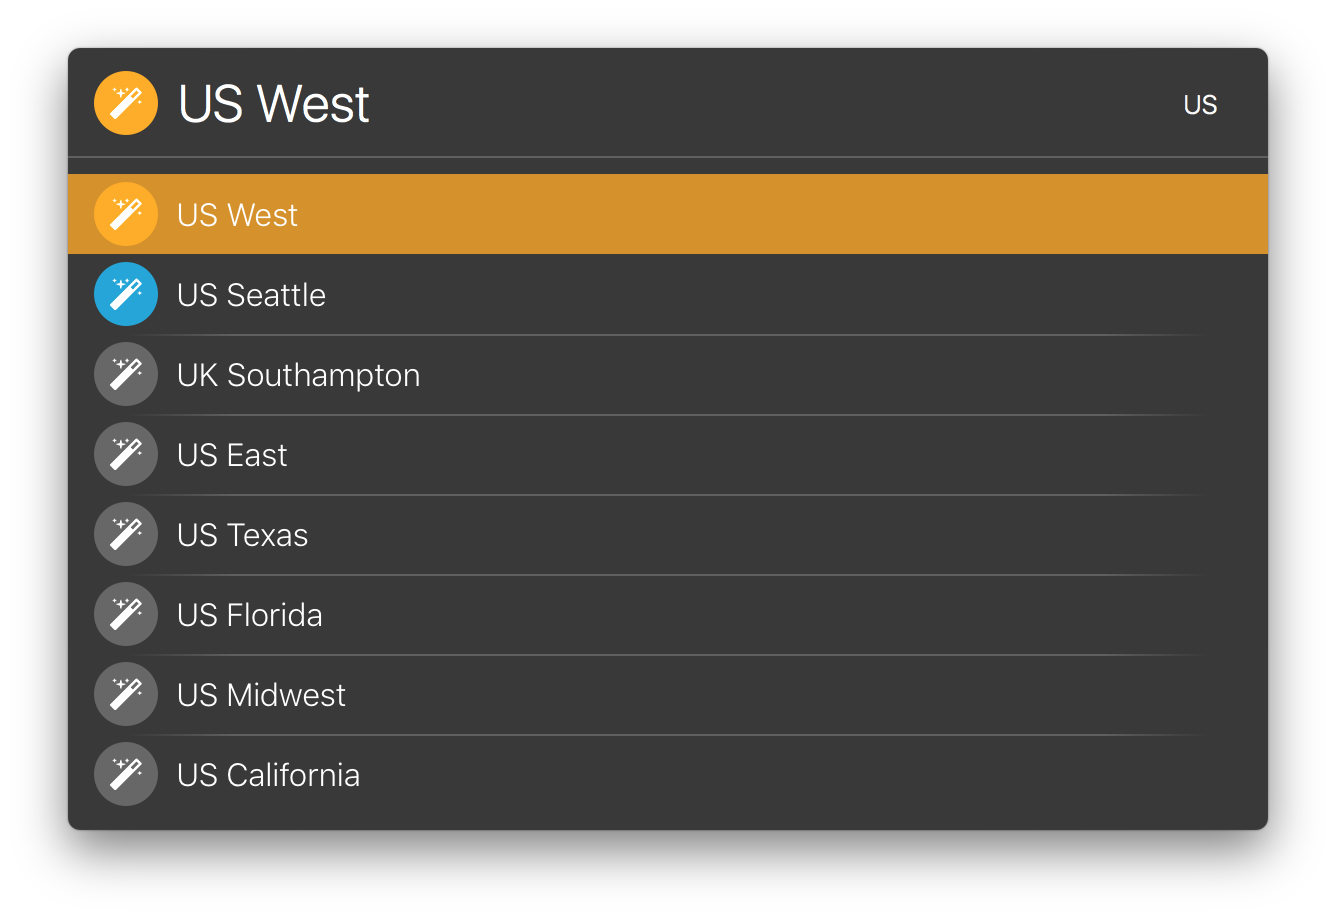
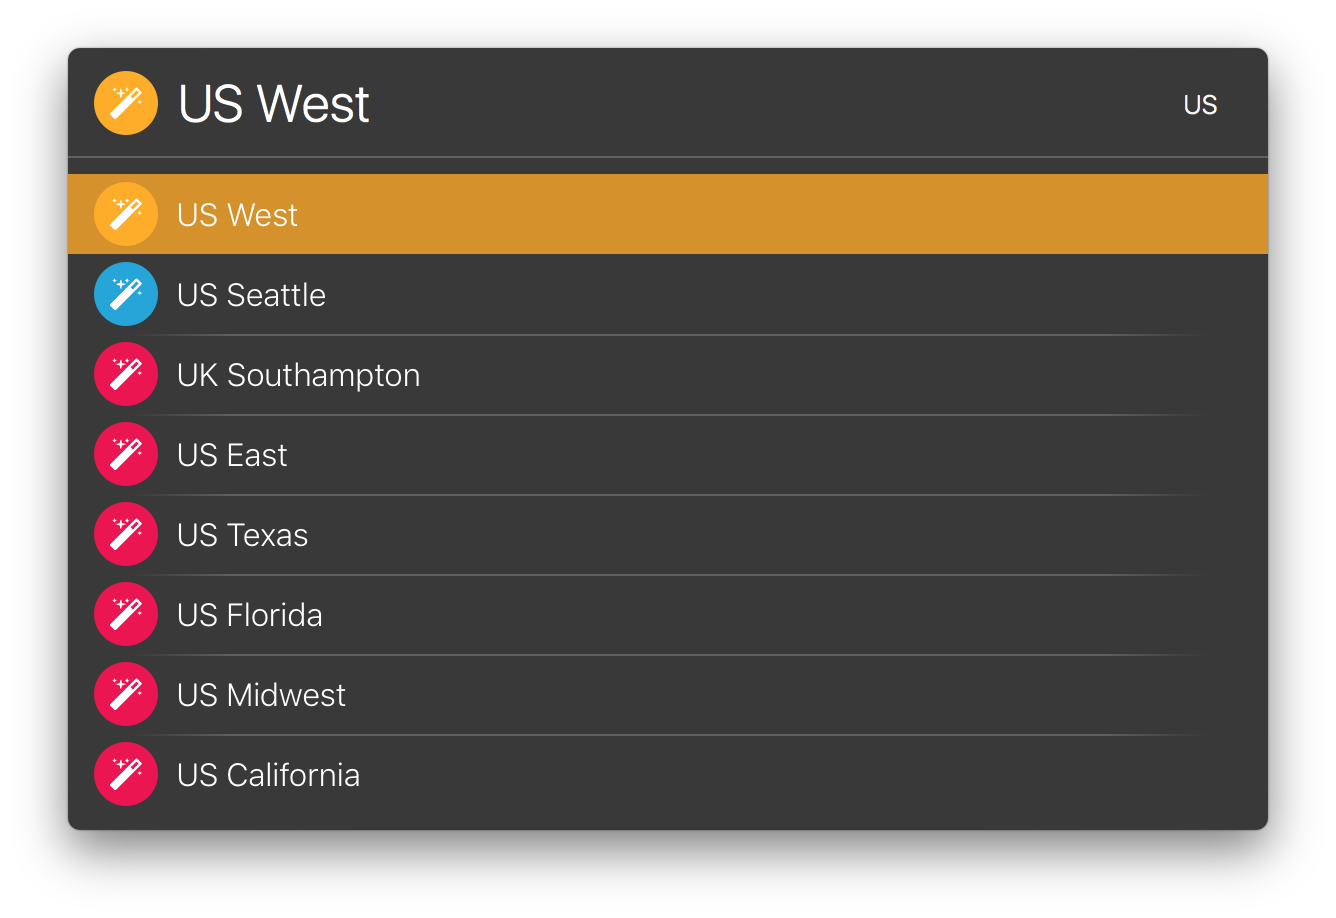
Use red instead of gray.

Changed region(s): [[0.0614, 0.366, 0.1228, 0.8845]]

diff --git a/README.md b/README.md
@@ -1,12 +1,12 @@
 launchbar-viscosity-vpn
 =======================
 
-Fork of Johan Abrahamsson's [launchbar-viscosity-vpn](https://github.com/ja-ab/launchbar-viscosity-vpn). Updated to use PDF icons. Changed colors from gray/orange/green to gray/orange/blue. Glyph from [Font Awesome by Dave Gandy](http://fontawesome.io).
+Fork of Johan Abrahamsson's [launchbar-viscosity-vpn](https://github.com/ja-ab/launchbar-viscosity-vpn). Updated to use PDF icons. Changed colors from gray/orange/green to red/yellow/blue. Glyph from [Font Awesome by Dave Gandy](http://fontawesome.io).
 
 Original README
 ---------------
 
-This action for Launchbar 6 will allow you to connect/disconnect to your VPNs in Viscosity by navigating in to "VPN's" where you will be given a visual indicaiton to the VPN's current status. 
+This action for Launchbar 6 will allow you to connect/disconnect to your VPNs in Viscosity by navigating in to "VPN's" where you will be given a visual indicaiton to the VPN's current status.
 
 Activating a gray connection will start the VPN while activating a orange/green connection will disconnect it.
 
